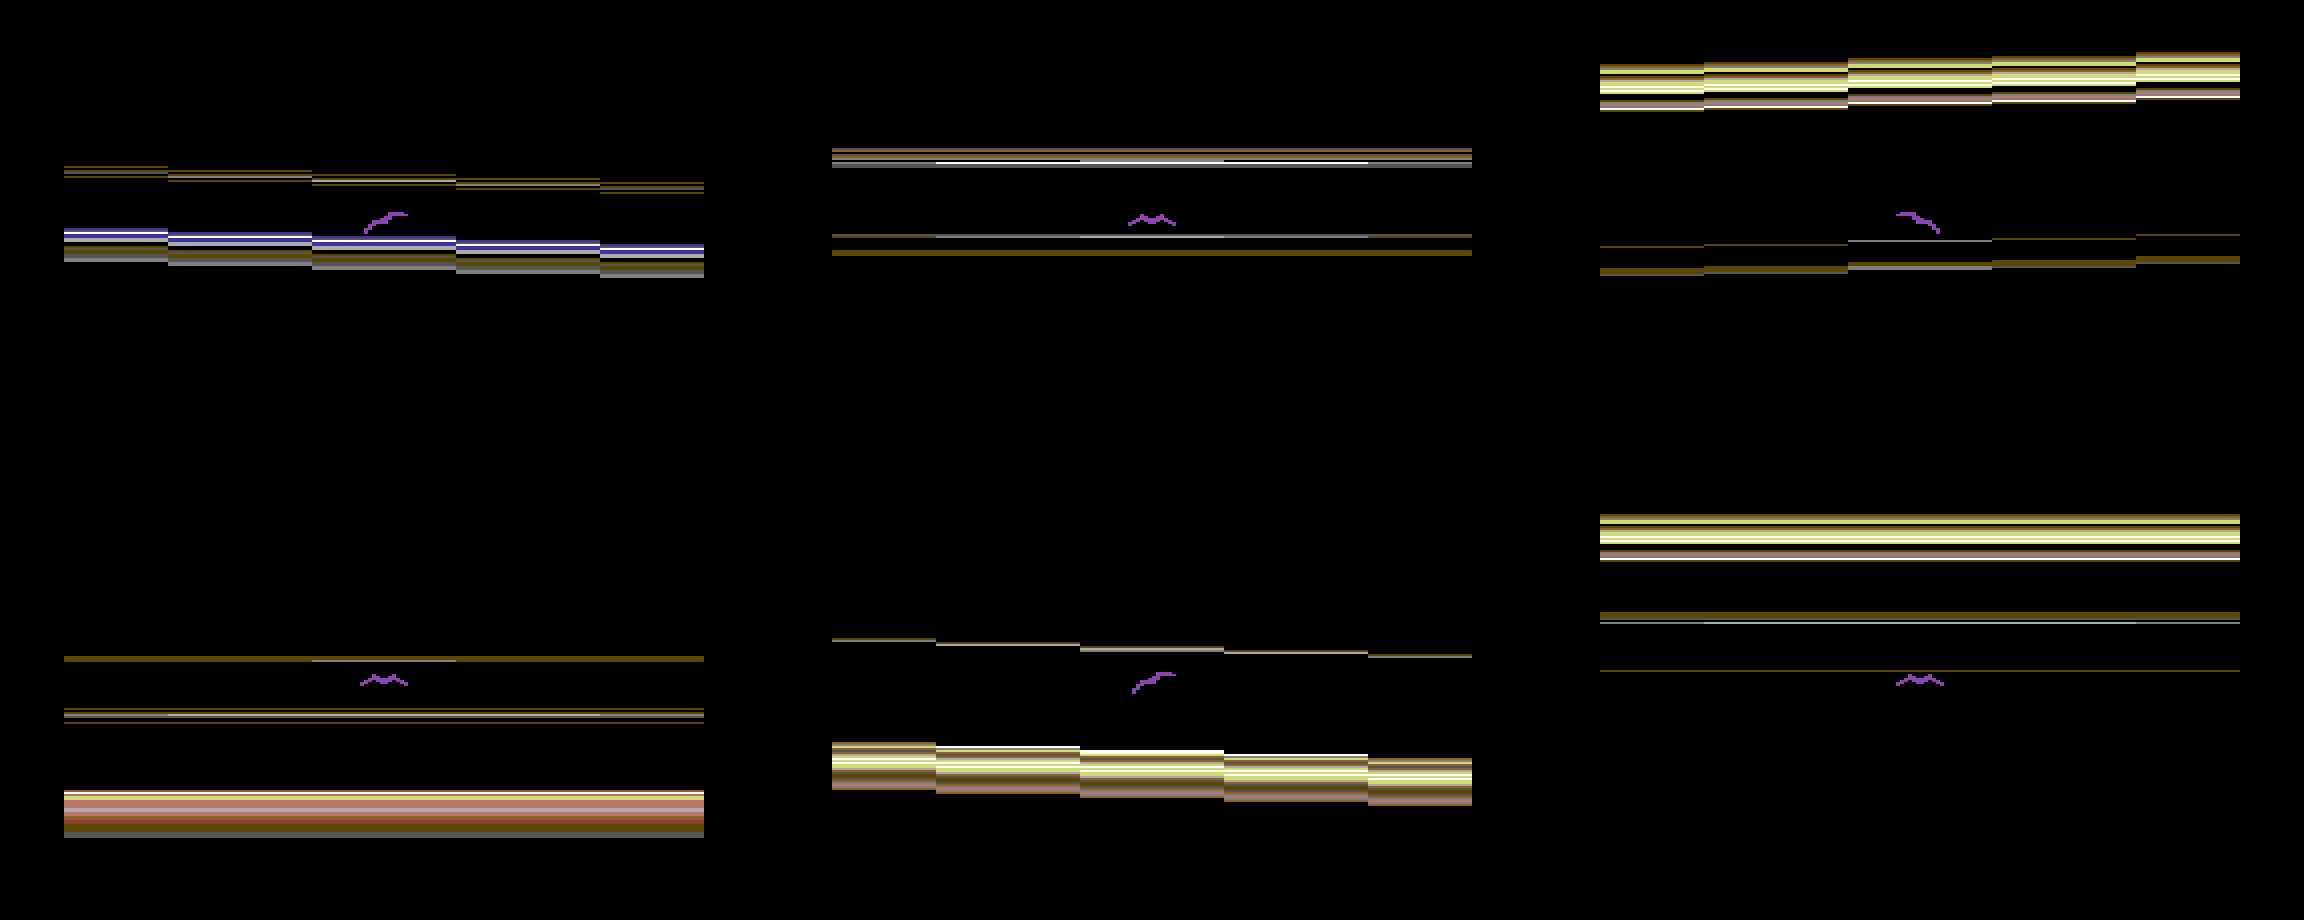
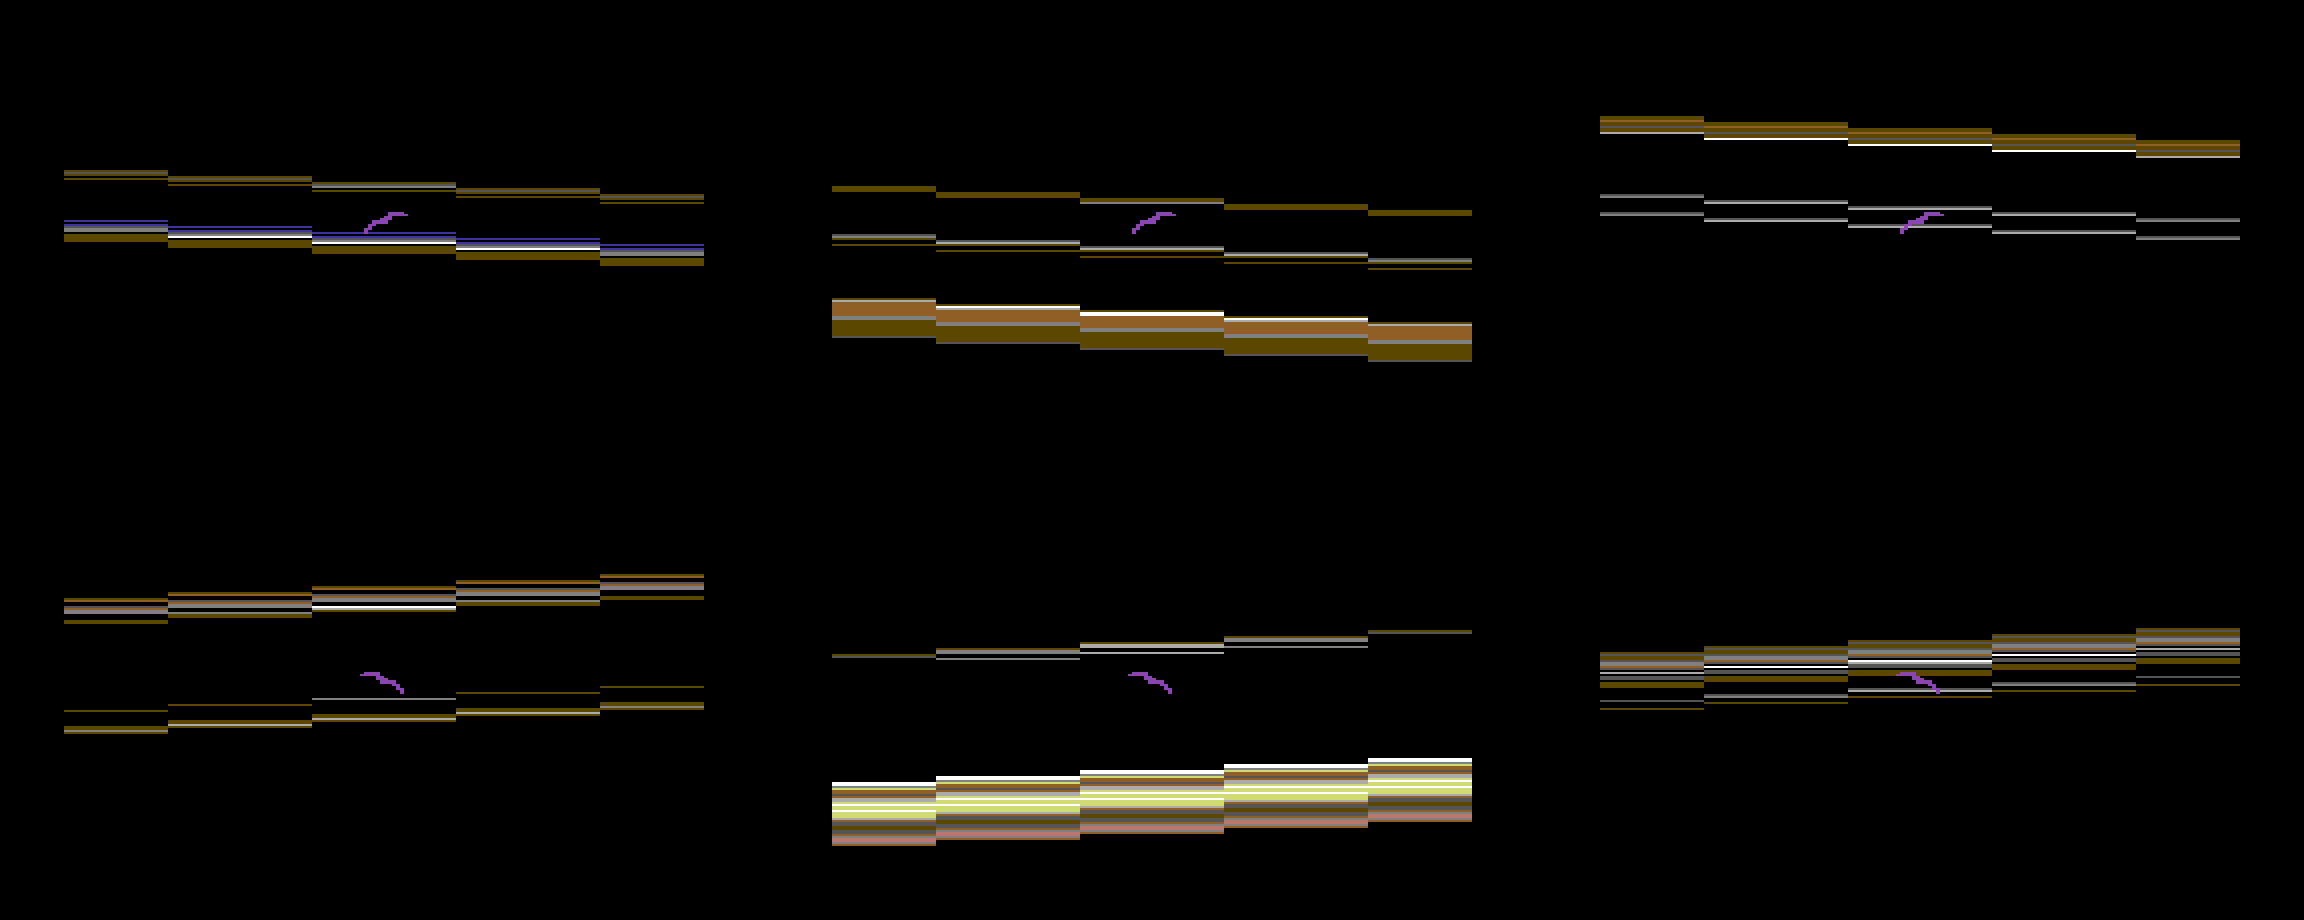
GOLDSHIP: roll tilts segments up to 3 lines apart
Neighbouring segments may now be 3 lines apart (was 2): at full roll a
bar drops 12 lines edge to edge. PAD is 12 in goldship; the roll's 17
tilt levels step 3/8 line per segment.

The near clip is now free: a row map sends the cut rows to black entries
of 64-byte-padded palette tables (pdim64), replacing the blanking pass
and skipping that frame's highlight. Worst frame 93% over 3000 frames.

The simulator's autopilot now rolls fully left and fully right every
200 frames; the preview's stills are at full roll.

Claude-Session: https://claude.ai/code/session_01XRP7YWTXV6rxeodyPouCbG

diff --git a/c64-raybars/gen_tables.py b/c64-raybars/gen_tables.py
@@ -467,10 +467,12 @@ for j in range(16):
     JF.append([[0, 1, 2], [3, 5, 6], [4, 7, 8]][side][vert])
 emit2("joyframe", JF)
 # roll r = -8 (left) .. 8 (right): the world turns the other way, so the bars'
-# slope is m = -r/4 lines per segment; off_k = floor(4 + (k - 2) * m + 0.5)
-# about the middle segment, stored as kb = 8 - off_k (rtilt0..4, index r + 8)
+# slope is m = -3r/8 lines per segment (up to 3 between neighbours); off_k =
+# floor(6 + (k - 2) * m + 0.5) about the middle segment, 0..12, stored as
+# kb = 12 - off_k (goldship's PAD) (rtilt0..4, index r + 8)
 for k in range(5):
-    emit2(f"rtilt{k}", [8 - int(math.floor(4 + (k - 2) * (-r / 4) + 0.5)) for r in range(-8, 9)])
+    emit2(f"rtilt{k}", [12 - int(math.floor(6 + (k - 2) * (-3 * r / 8) + 0.5))
+                        for r in range(-8, 9)])
 # spawn height relative to the ship, shuffled: 5 near it (|y| < 24 is a
 # collision course: they start at the screen centre) and 11 off the centre
 # line, up to 200 units (17 lines out when they appear).  16 bits.
@@ -490,6 +492,20 @@ for p_ in range(256):
 emit2("litlo", lo_)
 emit2("lithi", hi_)
 emit2("ydiv10", [int(round(v / 10)) for v in range(256)])
+# the dimmed palettes again, 64 bytes apart: entries 48..63 are black in
+# every one, for the near clip's cut rows
+emit2("pdim64", [x for p in PALS for lv in range(4)
+                 for x in [DIMS[lv][c] for e, o in p for c in (e, o)] + [0] * 16])
+# the near clip's row map (frame FLYD - 2, height CLIPH): nnmap's, with the
+# middle rows (fclip each side of the centre) pointing at black (48)
+ch, cc = fh[FLYD - 2], fclip[FLYD - 2]
+stp, acc = int(24 * 256 / ch), 0
+cm = []
+for j in range(ch):
+    cm.append(48 if ch // 2 - cc <= j < ch // 2 + cc else 2 * (acc >> 8) + (j & 1))
+    acc += stp
+emit2("clipmap", cm)
+out.insert(2, f"CLIPH = {ch}")
 out.insert(2, f"NYSPAWN = {len(yspawn)}")
 with open(os.path.join(here, "ship.inc"), "w") as f:
     f.write("\n".join(out) + "\n")

diff --git a/c64-raybars/sim_goldship.py b/c64-raybars/sim_goldship.py
@@ -1,6 +1,7 @@
 #!/usr/bin/env python3
 """Fly goldship.prg on an emulated 6502 (py65), with an autopilot on the
-joystick port: it dodges bars on a collision course and rolls back and forth.
+joystick port: it dodges bars on a collision course, and every 200 frames
+rolls fully left, levels, rolls fully right.
 
 Every frame, each scheduled IRQ block is set up by the program's own nextbar
 and its row loops are run; the colours they read are what gets rendered,
@@ -80,7 +81,10 @@ for f in range(FRAMES):
     if ahead:
         stv, y = max(ahead)
         stick |= 2 if y >= 0 else 1     # bar above (or level): dive, else climb
-    stick |= (0, 4, 0, 8)[(f // 70) % 4]  # and roll for show
+    # and roll for show, every 200 frames: level, full left (held 60
+    # frames), level, full right
+    ph = f % 200
+    stick |= 4 if 40 <= ph < 100 else 8 if 140 <= ph < 200 else 0
     mem[0xDC00] = 0xFF ^ stick
     hit0 = mem[L["hitfl"]]
     cyc = call(L["build"])
@@ -198,7 +202,7 @@ imgs = [render(f) for f in range(100, FRAMES, 2)]
 imgs[0].save(os.path.join(HERE, "preview_goldship.gif"), save_all=True,
              append_images=imgs[1:], duration=40, loop=0)
 sheet = Image.new("RGB", (W * SCALE * 3, H * SCALE * 2))
-for i, n in enumerate((120, 170, 220, 300, 380, 460)):
+for i, n in enumerate((90, 290, 490, 190, 390, 590)):   # full left; full right
     sheet.paste(render(n), ((i % 3) * W * SCALE, (i // 3) * H * SCALE))
 sheet.save(os.path.join(HERE, "preview_goldship.png"))
 print("wrote preview_goldship.gif, preview_goldship.png")

diff --git a/c64-raybars/README.md b/c64-raybars/README.md
@@ -393,9 +393,13 @@ python3 sim_goldship.py      # needs -g -Ln goldship.lbl; renders preview_goldsh
   frame, so pushing up makes the bars sink. Each bar's height is relative
   to the ship's: it is `Y/Z` lines from the centre, above or below.
 * **Roll** (left / right) tilts every bar the other way, one step every
-  other frame, up to 2 lines per segment. Letting go levels out again.
-  All bars are parallel, so the tilt comes from one 17-entry table per
-  segment (`rtilt0..4`).
+  other frame. Neighbouring segments can be up to 3 lines apart, so at
+  full roll a bar drops 12 lines from one edge to the other. Letting go
+  levels out again.
+  * All bars are parallel, so the tilt comes from one 17-entry table per
+    segment (`rtilt0..4`).
+  * Each bar has 12 black padding rows above and below it (`PAD`), one
+    for each line of the steepest slant.
 * **New bars** appear far away at your current height, plus the next of
   16 shuffled offsets (16-bit): 5 near the ship, on a collision course at
   the screen centre, and 11 off the centre line, up to 200 units away
@@ -416,18 +420,22 @@ python3 sim_goldship.py      # needs -g -Ln goldship.lbl; renders preview_goldsh
   so almost every frame merges bars, often all three. Three things keep
   that inside the frame:
   * A light-angle table bounds the highlight loop to the lit rows.
+  * The near clip costs nothing extra. Its row map sends the cut rows to
+    black entries in the palette tables, which are padded to 64 bytes
+    for this.
   * All bars share one tilt, so a farther bar's rows sit at the same
     offset in every column. Copying them and blacking around the nearest
     bar both handle all five columns at once.
   * This program banks out the ROMs, so its zero page can run past $7F
     (the shared `raybars.cfg` now allows up to $FF).
 * **Simulator.** `sim_goldship.py` flies with an autopilot on `$dc00`. It
-  dives or climbs away from the nearest bar on a collision course and
-  rolls back and forth for show. It runs the program's own display code
+  dives or climbs away from the nearest bar on a collision course. Every
+  200 frames it also rolls fully left, levels out, and rolls fully right.
+  The preview's still frames are at full roll. It runs the program's own display code
   for every block, and over 3000 frames found:
   * Every row takes 63 cycles, or 58 on the sprite's lines.
   * Every displayed cell shows the nearest bar covering it.
-  * The worst frame uses 89% of the free time.
+  * The worst frame uses 93% of the free time.
 
   As in goldfly, the sprite DMA timing (`STEAL`, `BAND0/1`) needs checking
   in VICE.
